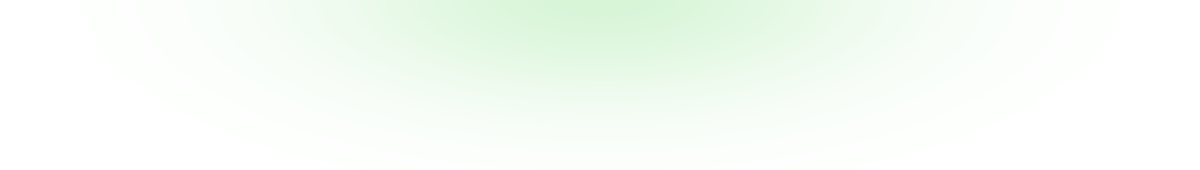
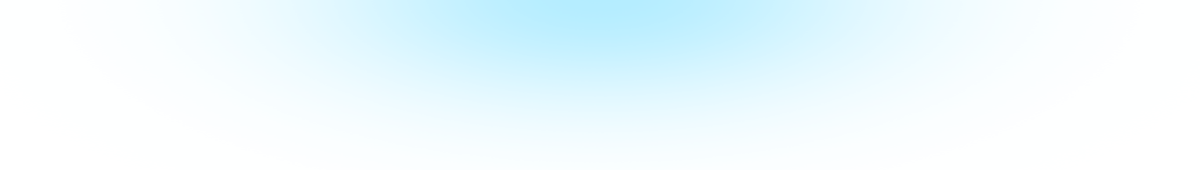
Used a different color for the css to differentiate it from my website and time4money application.

Changed region(s): [[0.3392, 0.0, 0.6783, 0.4118]]

diff --git a/assets/stylesheets/wip/5grid/core.css b/assets/stylesheets/wip/5grid/core.css
@@ -7,90 +7,14 @@
 /* Resets (by meyerweb.com/eric/tools/css/reset/) */
 /**************************************************/
 
-	html, body, div, span, applet, object, iframe, h1, h2, h3, h4, h5, h6, p, blockquote, pre, a, abbr, acronym, address, big, cite, code, del, dfn, em, img, ins, kbd, q, s, samp, small, strike, strong, sub, sup, tt, var, b, u, i, center, dl, dt, dd, ol, ul, li, fieldset, form, label, legend, caption, tbody, tfoot, thead, tr, th, td, article, aside, canvas, details, embed, figure, figcaption, footer, header, hgroup, menu, nav, output, ruby, section, summary, time, mark, audio, video {
+	html, body, div, span, applet, object, iframe, h1, h2, h3, h4, h5, h6, p, blockquote, pre, a, abbr, acronym, address, big, cite, code, del, dfn, em, img, ins, kbd, q, s, samp, small, strike, strong, sub, sup, tt, var, b, u, i, center, dl, dt, dd, ol, ul, li, fieldset, form, label, legend, table, caption, tbody, tfoot, thead, tr, th, td, article, aside, canvas, details, embed, figure, figcaption, footer, header, hgroup, menu, nav, output, ruby, section, summary, time, mark, audio, video {
 		margin: 0;
 		padding: 0;
-		border: 2;
+		border: 0;
 		font-size: 100%;
 		font: inherit;
 		vertical-align: baseline;
 	}
-
-/* JRT added table and elements below.  */
-
-.table-curved {
-    border-collapse:separate;
-    border: 0;
-    border-radius: 5px;
-}
-
-
-.table-curved tr:last-child td:last-child
-{ 
-    border-bottom-right-radius: 5px;   
-}
-
-.table-curved tr:last-child td:first-child
-{
-    border-bottom-left-radius: 5px;      
-}
-
-.table-curved th{
-	background-color:#467f45;
-	color:white;
-    
-}
-
-.table-curved th:last-child {
-	border-top-right-radius: 5px;
-}
-
-.table-curved th:first-child {
-	border-top-left-radius: 5px;
-}
-
-tr.odd td {
-background-color: #DDDDFF; color: black;
-}
-tr.even td {
-background-color: #ddf5dd; color: black;
-}
-
-td.left { text-align:center; width:10%; }
-td.right { text-align:right; width:10%; }
-td.middle { text-align:left; width:70%; }
-
-td.jleft { text-align:center; width:8%; }
-td.jright { text-align:right; width:8%; }
-td.jmiddle { text-align:left; width:50%; }
-
-/* Form tables  */
-.table-form {
-    border-collapse:separate;
-    border: 0;
-    border-radius: 5px;
-    border-collapse: separate; 
-    border-spacing: 10px;
-}
-
-.table-form th{
-	background-color:#467f45;
-	color:white;
-    
-}
-
-.table-form th {
-	border-top-left-radius: 5px;
-	border-bottom-left-radius: 5px;
-}
-
-/* JRT above table */
-
-/* JRT below input, text box etc */
-input, textarea {
-	border-radius: 5px;
-}
-/* JRT above input etc */
 
 	article, aside, details, figcaption, figure, footer, header, hgroup, menu, nav, section {
 		display: block;
@@ -115,7 +39,7 @@ input, textarea {
 
 	table {
 		border-collapse: collapse;
-		border-spacing: 0.2em;
+		border-spacing: 0;
 	}
 
 /*********************/

diff --git a/assets/stylesheets/wip/style.css b/assets/stylesheets/wip/style.css
@@ -17,22 +17,16 @@
 		color: #7f7f7f;
 	}
 
-
-
-/* JRT I don't know what this does other than stop
-			checkboxes from working in forms
 	form
 	{
 	}
-		
+	
 		form input,
 		form select,
-		
 		form textarea
 		{
-			 -webkit-appearance: none;
+			-webkit-appearance: none;
 		}
-/************ JRT *********************/
 			
 	br.clear
 	{
@@ -51,8 +45,7 @@
 	
 	a
 	{
-		color: #0000ff
-		/* color: #e87900;  JRT */
+		color: #e84700;
 	}
 	
 		a:hover
@@ -119,7 +112,7 @@
 		ul.style1 a
 		{
 			text-decoration: underline;
-			color: #e87900;
+			color: #e84700;
 		}
 
 			ul.style1 a:hover
@@ -196,7 +189,7 @@
 		margin-top: 1em;
 		padding: 0.70em 1.5em;
 		border-radius: 5px;
-		background: #e87900;
+		background: #e84700;
 		line-height: 1;
 		text-align: center;
 		text-decoration: none;
@@ -208,7 +201,7 @@
 	
 		.button:hover
 		{
-			background: #f7901f;
+			background: #f26e34;
 		}
 
 	.button-style1
@@ -230,7 +223,7 @@
 	}
 		.button-style2:hover
 		{
-			background: #f7901f;
+			background: #f26e34;
 		}
 
 	/* Assign these to ARTICLE tags */
@@ -255,7 +248,7 @@
 		{
 			padding: 0 0 0.30em 0;
 			font-size: 1.10em;
-			color: #467f45;
+			color: #006f93;
 		}
 
 	.box-post
@@ -324,9 +317,9 @@
 	{
 		overflow: hidden;
 		padding: 3em 0em;
-		background: #467f45 url(images/shadow02.png) no-repeat center top;
+		background: #006f93 url(images/shadow02.png) no-repeat center top;
 		box-shadow: 0px 10px 5px rgba(0,0,0,.3), 0px -1px 25px rgba(0,0,0,.3);
-		color: #dae5da;
+		color: #cce2e9;
 	}
 	
 	#main-wrapper
@@ -378,7 +371,7 @@
 		margin: 0 0 1em 0;
 		padding: 0 0 0 3.50em;
 		background: url(images/arrow01.png) no-repeat 0.75em 50%;
-		border-bottom: 1px solid #7fa67e;
+		border-bottom: 1px solid #4d9ab4;
 		letter-spacing: -0.02em;
 		font-size: 1.50em;
 		color: #FFFFFF;
@@ -389,7 +382,7 @@
 		display: inline-block;
 		height: 3.50em;
 		padding: 0 0 0 1em;
-		border-left: 1px solid #7fa67e;
+		border-left: 1px solid #4d9ab4;
 		line-height: 3.5em;
 	}
 

diff --git a/assets/stylesheets/wip/style-desktop.css b/assets/stylesheets/wip/style-desktop.css
@@ -35,7 +35,7 @@
 		{
 			float: left;
 			letter-spacing: -1px;
-			font-size: 2.6em; /* JRT was 3 */
+			font-size: 3em;
 			font-weight: 700;
 		}
 		
@@ -68,7 +68,7 @@
 	{
 		height: 3.75em;
 		margin-top: 6.00em;
-		background: #467f45 url(images/shadow01.png) no-repeat center top;
+		background: #006f93 url(images/shadow01.png) no-repeat center top;
 		border-radius: 5px;
 		box-shadow: 5px 0 5px -5px rgba(0, 0, 0, 0.4), 0 6px 5px -5px rgba(0, 0, 0, 0.4), -5px 0 5px -5px rgba(0, 0, 0, 0.4);
 	}
@@ -107,8 +107,8 @@
 
 	.dropotron
 	{
-		background: #467f45;
-		background: rgba(70,127,69,0.98);
+		background: #006f93;
+		background: rgba(0,111,147,0.98);
 		border-radius: 5px;
 		padding: 1.25em;
 		line-height: 2.25em;
@@ -126,7 +126,7 @@
 		.dropotron a,
 		.dropotron span
 		{
-			color: #cce4cc;
+			color: #aDdAf4;
 			text-decoration: none;
 			outline: 0;
 		}

diff --git a/templates/base.html b/templates/base.html
@@ -70,7 +70,7 @@
 						<div class="4u" id="logo">
 							<section>
 								<h1><a href="http://www.magiclamp.com.au" class="mobileUI-site-name">
-								Archeologist <span>By MagicLAMP</span></a></h1>
+								Archeologist</a></h1>
 							</section>
 						</div>
 					
